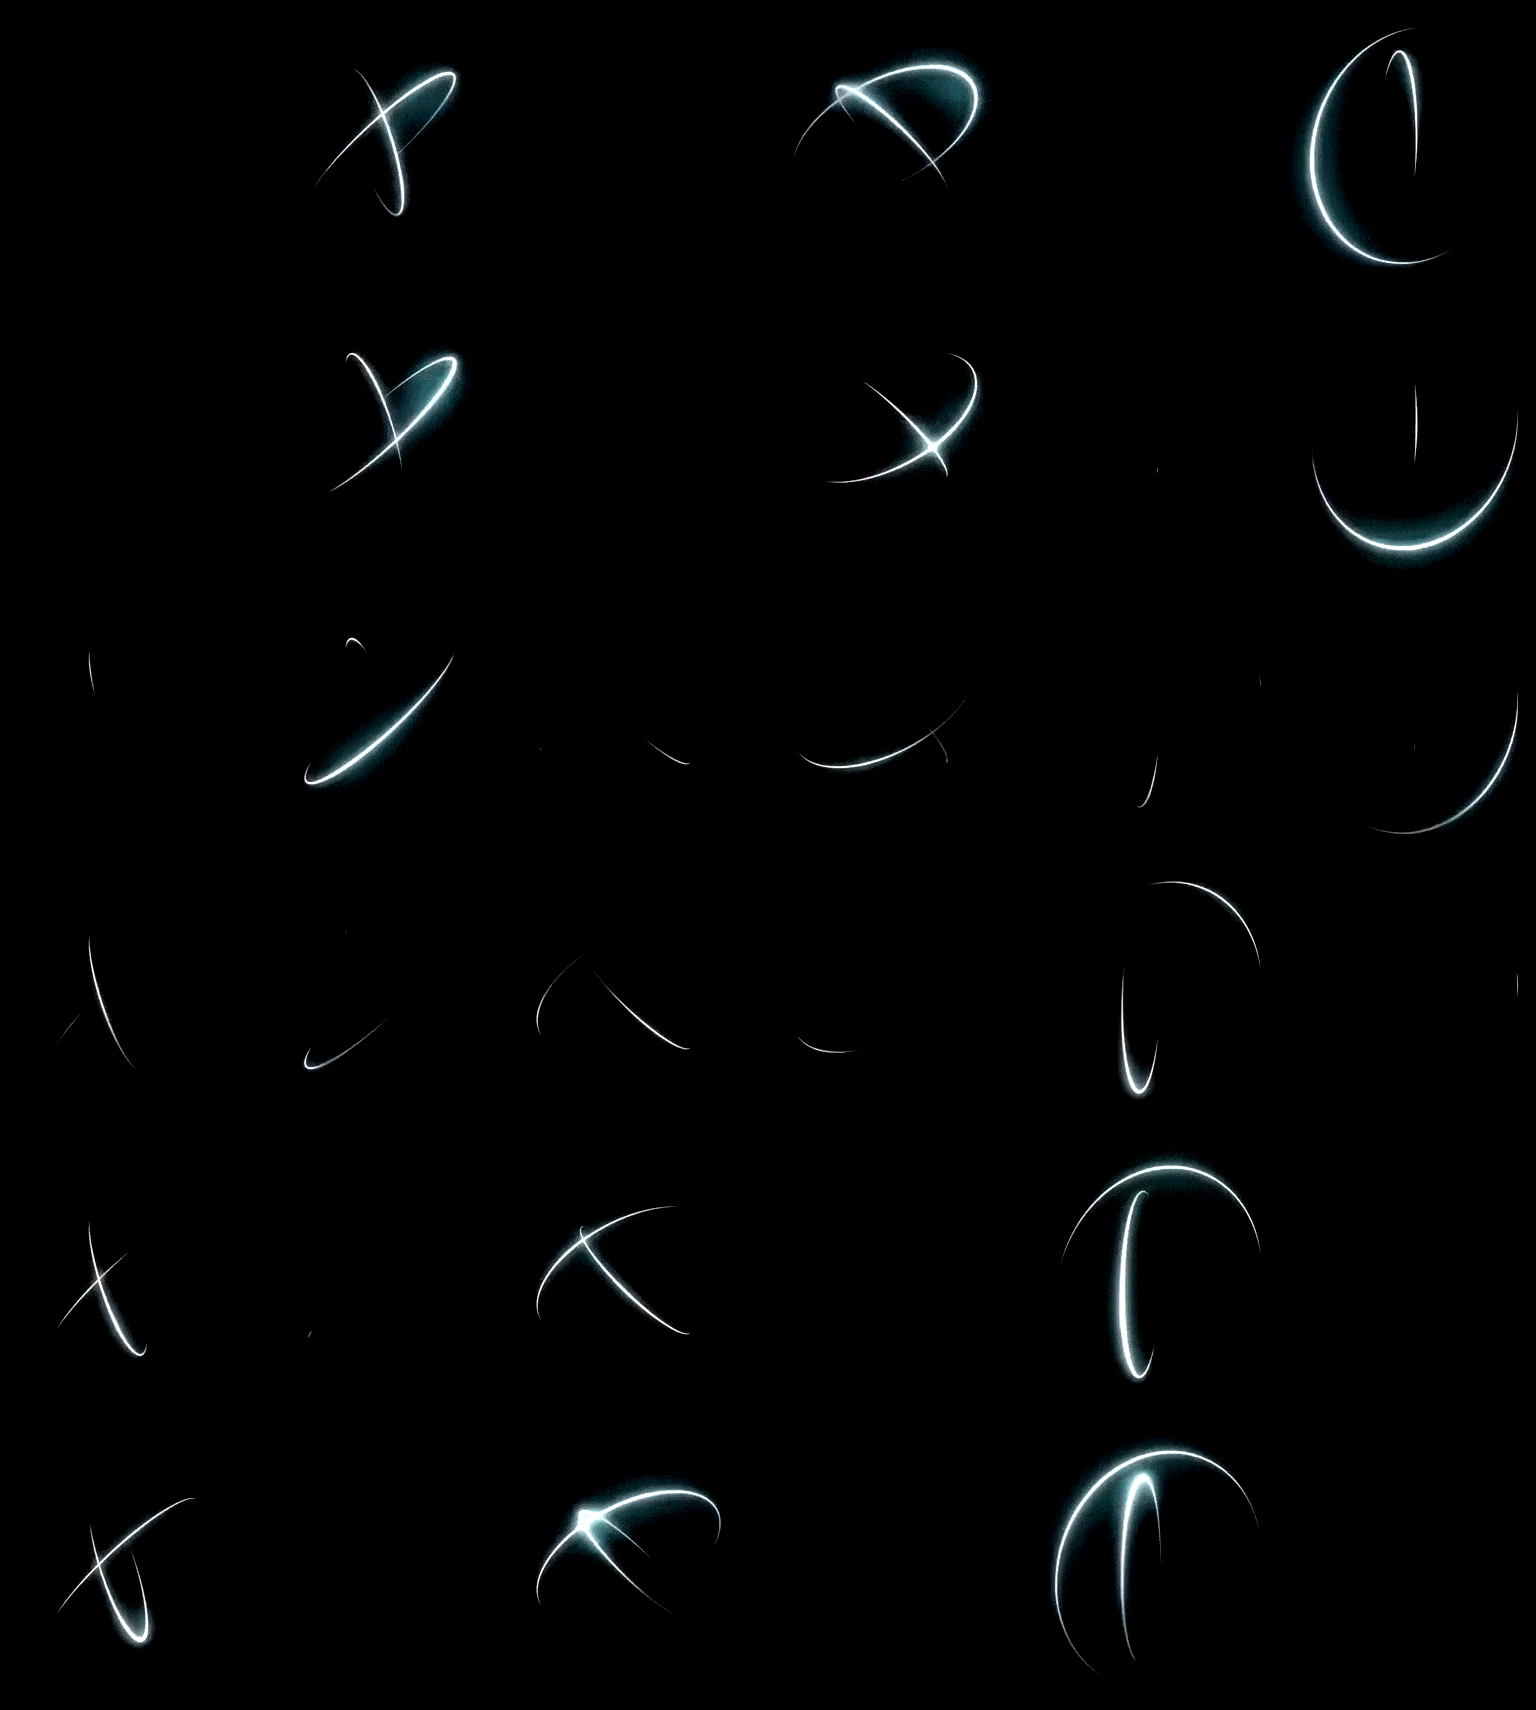
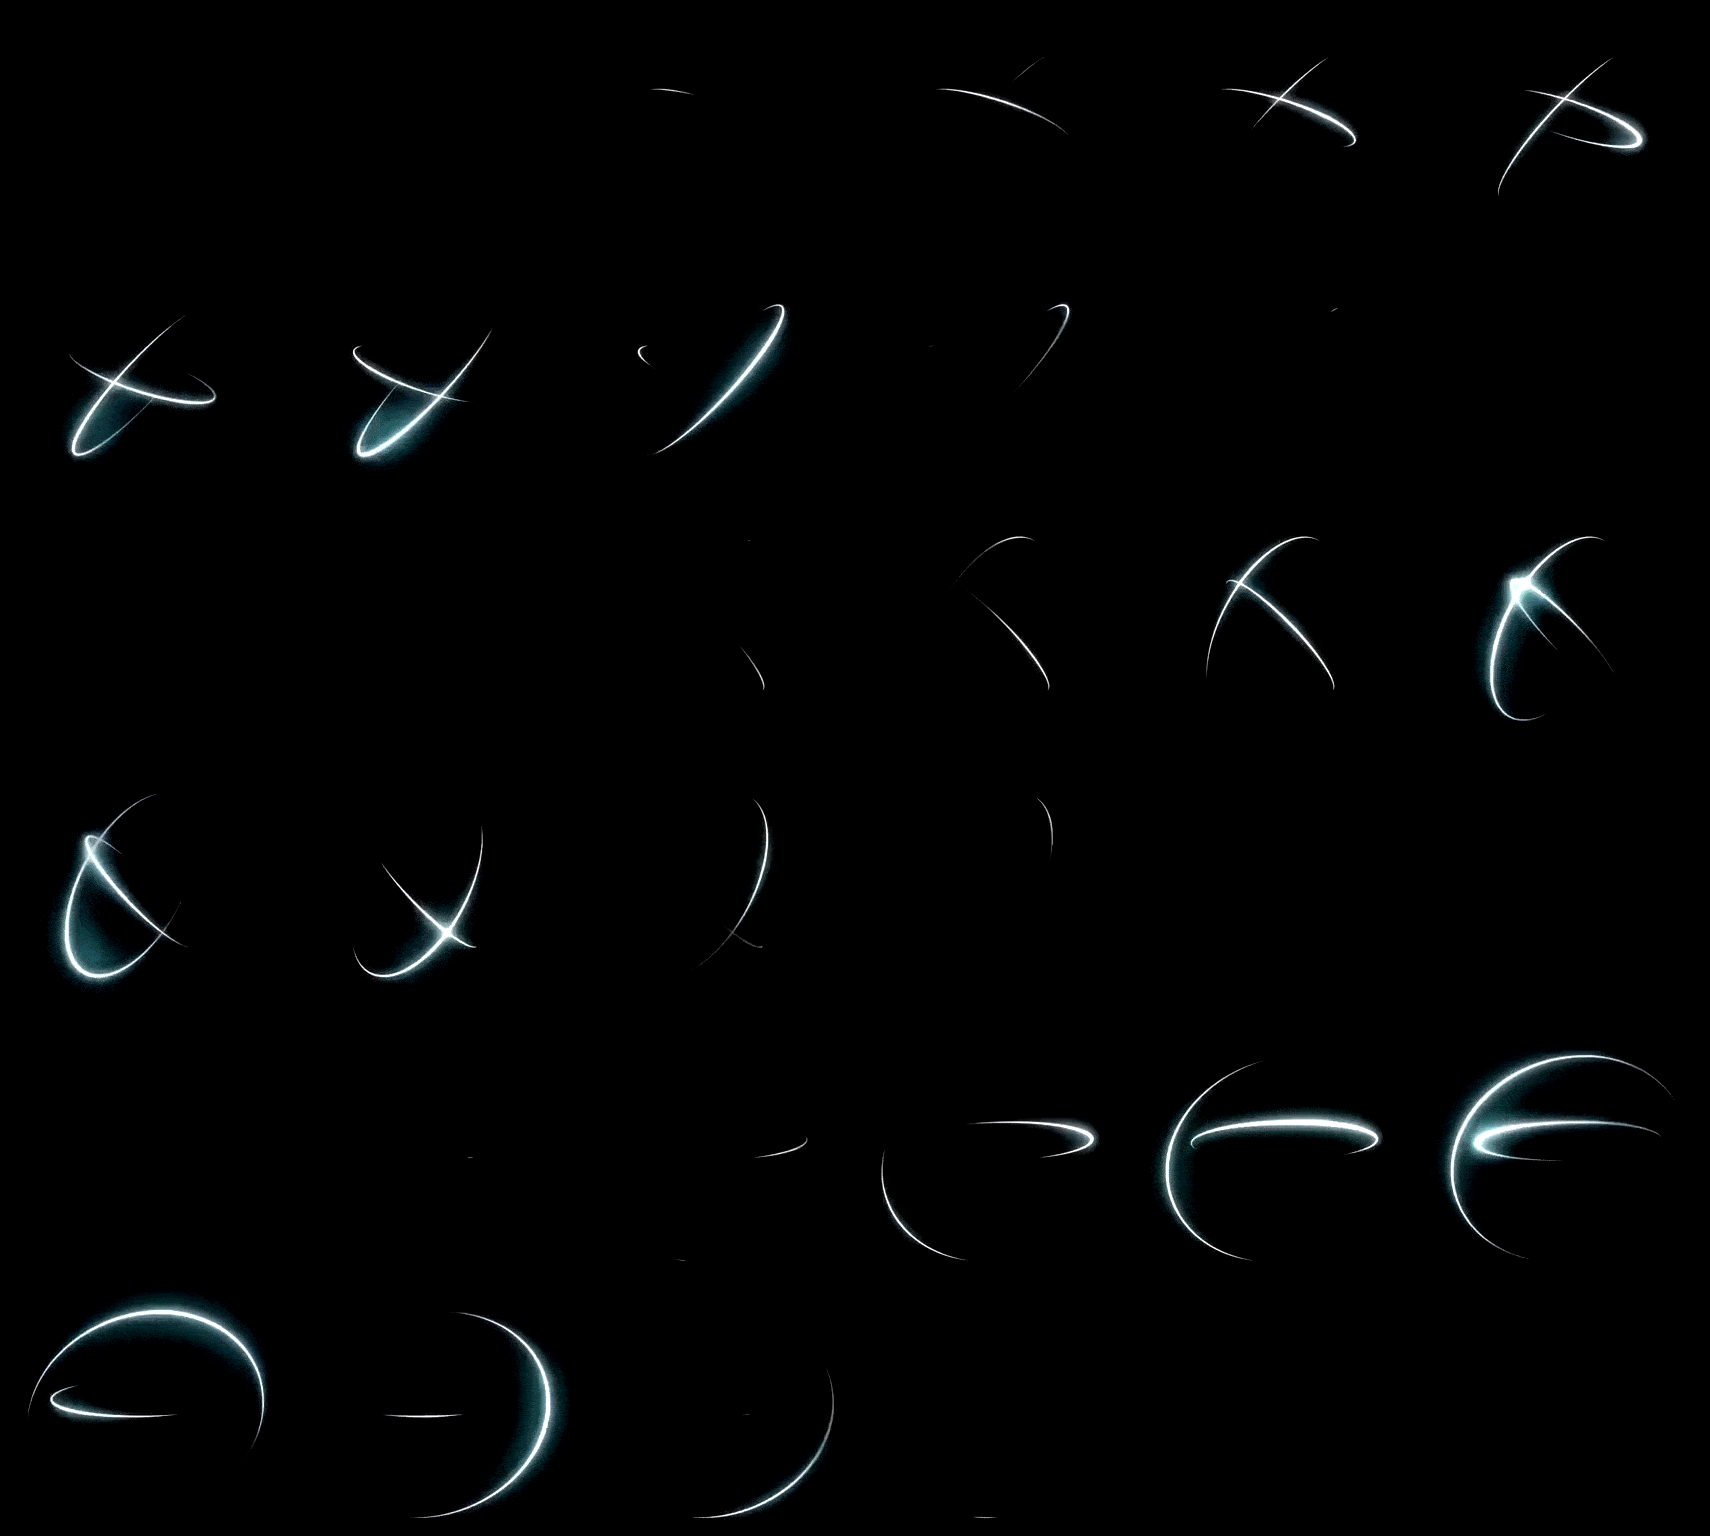
fixed for real

diff --git a/Projectiles/Slashers/Vixyl/VixylSlashProj.cs b/Projectiles/Slashers/Vixyl/VixylSlashProj.cs
@@ -9,7 +9,7 @@ namespace Stellamod.Projectiles.Slashers.Vixyl
     {
         public override void SetStaticDefaults()
         {
-            Main.projFrames[Projectile.type] = 36;
+            Main.projFrames[Projectile.type] = 6;
         }
 
         public override void SetDefaults()
@@ -56,7 +56,7 @@ namespace Stellamod.Projectiles.Slashers.Vixyl
 
             // The multiplication here wasn't doing anything
             Lighting.AddLight(Projectile.position, RGB.X, RGB.Y, RGB.Z);
-            UpdateFrame(0.4f, 1, 36);
+            UpdateFrame(0.8f, 1, 36);
         }
 
         
@@ -70,15 +70,18 @@ namespace Stellamod.Projectiles.Slashers.Vixyl
             Texture2D texture = ModContent.Request<Texture2D>(Texture).Value;
             Vector2 drawPosition = Projectile.Center - Main.screenPosition;
 
-            Rectangle rectangle = new Rectangle(0, 0, 256, 285);
+            Rectangle rectangle = new Rectangle(0, 0, 285, 256);
             rectangle.X = ((int)trueFrame % 6) * rectangle.Width;
             rectangle.Y = (((int)trueFrame - ((int)trueFrame % 6)) / 6) * rectangle.Height;
 
             Vector2 origin = new Vector2(rectangle.Width / 2, rectangle.Height / 2);
             SpriteBatch spriteBatch = Main.spriteBatch;
+            float drawRotation = Projectile.rotation;
+            float drawScale = 2f;
+
             spriteBatch.Draw(texture, drawPosition,
                rectangle,
-                (Color)GetAlpha(lightColor), 0f, origin, 2f, SpriteEffects.None, 0f);
+                (Color)GetAlpha(lightColor), drawRotation, origin, drawScale, SpriteEffects.None, 0f);
             return false;
         }
     }
